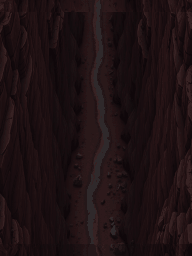
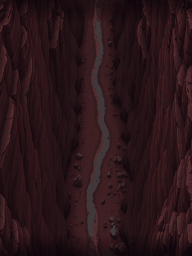
feat: 全5面の背景を生成画像ベースのドット絵タイルに、明るさも調整
3面のみだった生成背景を全5面に拡大し、あわせて全体を明るくした。

背景タイル（art/bg/）:
- sky / sea / canyon / city / fortress の5種を各3枚、192x256・24色で生成
- 面ごとに明るさを調整（暗さ 0.46〜0.62 / 彩度ダウン 0.20〜0.45）。
  以前の 0.42 は暗すぎたため全体的に持ち上げた
- 継ぎ目の処理を変更。別々に生成した絵を広くクロスディゾルブすると
  白っぽい帯が出るので、狭くディゾルブしてから暗く落とし、
  「影を通過する」ように見せて隠すようにした

ゲーム側:
- drawBGOverlay() を新設し、画像背景の上に重ねる動きのある近景を面ごとに整理
  （鳥・薄雲／波のきらめき・白波・ブイ／土煙・小石・溶岩の飛沫／
    サーチライト・点滅灯／導管を流れる光・警告灯）
- 画像背景の面では暗幕(dim)をかけない（PNG側で明るさ調整済みのため）

生成元の1024x1024 PNGはサイズが大きいためコミットせず、
プロンプトとシードを art/bg/README.md に記録した。

描画コストは 0.17〜0.34ms/フレーム。追加ファイルは15枚で484KB。

diff --git a/index.html b/index.html
@@ -1646,7 +1646,11 @@ function loadBGTiles(idx, name, n){
     arr.push(im);
   }
 }
-loadBGTiles(2, 'canyon', 3);          // 3面：紅蓮の峡谷
+loadBGTiles(0, 'sky',      3);        // 1面：蒼空
+loadBGTiles(1, 'sea',      3);        // 2面：蒼海
+loadBGTiles(2, 'canyon',   3);        // 3面：峡谷
+loadBGTiles(3, 'city',     3);        // 4面：夜の街
+loadBGTiles(4, 'fortress', 3);        // 5面：宇宙要塞
 
 // タイルを縦に敷き詰めてスクロールさせる
 function drawBGTiles(T){
@@ -1660,10 +1664,82 @@ function drawBGTiles(T){
     }
 }
 
+
+/* 画像背景の上に重ねる、動きのある近景。背景そのものは静止画なので、
+   ここで手描きの要素を流して奥行きと生命感を出す。 */
+function drawBGOverlay(idx){
+  if (idx === 0){                                   // 空：鳥の群れと薄い雲
+    for (const p of bgSky){
+      const x = Math.round(dot(p.x)), y = Math.round(dot(p.y)), s = p.s;
+      if (p.k === 1){
+        for (let i = 0; i < 4; i++){
+          const bx = x + i*5 - 7, by = y + ((i*3)%4) - 2;
+          const f = (Math.floor(scrollY*0.08) + i) % 2;
+          pset(bx, by+f, '#141f33'); pset(bx+1, by, '#141f33'); pset(bx+2, by+f, '#141f33');
+        }
+      }
+    }
+    for (const p of bgProps){                       // 手前を横切る薄い雲
+      const x = Math.round(dot(p.x)), y = Math.round(dot(p.y)), s = p.s;
+      ctx.globalAlpha = 0.28;
+      oval(x, y, 13*s, 3*s, '#8fa8c8'); oval(x+8*s, y+1, 8*s, 2*s, '#8fa8c8');
+      ctx.globalAlpha = 1;
+    }
+  } else if (idx === 1){                            // 海：波のきらめきと白波
+    for (let i = 0; i < 9; i++){
+      const y = Math.round(((scrollY*1.4/PIXEL + i*29) % (PH+29)) - 14);
+      ctx.fillStyle = '#5fa8cc';
+      for (let x = (i*11)%16; x < PW; x += 16)
+        pset(x, y + Math.round(Math.sin(x*0.18 + scrollY*0.02 + i)*1.6), '#5fa8cc');
+    }
+    for (const p of bgSky){
+      const x = Math.round(dot(p.x)), y = Math.round(dot(p.y)), s = p.s;
+      if (p.k === 0){ pset(x-2, y-1, '#9fd8ee'); pset(x+2, y, '#9fd8ee'); pset(x, y+1, '#9fd8ee'); }
+      else if (p.k === 2){ pset(x, y, (Math.floor(scrollY*0.06) % 2) ? '#ff8a4a' : '#5a2a18'); }
+    }
+  } else if (idx === 2){                            // 峡谷：土煙・小石・溶岩の飛沫
+    for (const p of bgSky){
+      const x = Math.round(dot(p.x)), y = Math.round(dot(p.y)), s = p.s;
+      if (p.k === 0){ ctx.globalAlpha = 0.45; oval(x, y, 7*s, 2*s, '#5a3a1c'); ctx.globalAlpha = 1; }
+      else if (p.k === 1){ pset(x, y, '#6b4a24'); pset(x+2, y+1, '#4d3418'); }
+      else { pset(x, y, '#c2431a'); pset(x, y-1, '#ff9a3b'); }
+    }
+  } else if (idx === 3){                            // 街：サーチライトと点滅灯
+    for (const p of bgSky){
+      const x = Math.round(dot(p.x)), y = Math.round(dot(p.y)), s = p.s;
+      if (p.k === 2){
+        const sw = Math.sin(scrollY*0.02 + p.seed)*0.5;
+        ctx.globalAlpha = 0.5;
+        for (let t = 0; t < 26*s; t++)
+          if ((t + Math.floor(scrollY*0.1)) % 3) pset(x + t*sw, y - t, '#2a4a72');
+        ctx.globalAlpha = 1;
+        pset(x, y, '#bfe4ff');
+      } else if ((p.seed + Math.floor(scrollY*0.05)) % 3 === 0){
+        pset(x, y, '#ff5a5a');
+      }
+    }
+  } else {                                          // 要塞：導管を流れる光と警告灯
+    for (let i = 0; i < 5; i++){
+      const x = 18 + i*39;
+      const y = Math.round(((scrollY*3/PIXEL + i*54) % (PH+48)) - 24);
+      rct(x, y, 1, 14, '#4fb8ff'); rct(x, y+5, 1, 4, '#d8f4ff');
+    }
+    for (const p of bgSky){
+      const x = Math.round(dot(p.x)), y = Math.round(dot(p.y));
+      if (p.k === 2) pset(x, y, (Math.floor(scrollY*0.08) % 2) ? '#ff5a5a' : '#3a1010');
+      else if (p.k === 0) pset(x, y, (Math.floor(scrollY*0.05 + p.seed) % 4) ? '#1e3050' : '#5fc8ff');
+    }
+  }
+}
+
 function drawBG(idx){
   const TILES = BGTILES[idx];
-  if (TILES) drawBGTiles(TILES);         // 生成した背景タイル
-  else ctx.drawImage(bgBake, 0, 0);      // 焼いておいたグラデーション
+  if (TILES){                            // 生成した背景タイル
+    drawBGTiles(TILES);
+    drawBGOverlay(idx);
+    return;
+  }
+  ctx.drawImage(bgBake, 0, 0);           // 焼いておいたグラデーション
 
   if (idx === 0){                        // ---- 空 ----
     for (const p of bgSky){              // 最遠景：巻雲と鳥の群れ
@@ -1736,20 +1812,6 @@ function drawBG(idx){
         }
     }
   } else if (idx === 2){                 // ---- 峡谷 ----
-    if (TILES){                          // 画像背景のときは動くものだけ重ねる
-      for (const p of bgSky){
-        const x = Math.round(dot(p.x)), y = Math.round(dot(p.y)), s = p.s;
-        if (p.k === 0){ ctx.globalAlpha = 0.5; oval(x, y, 7*s, 2*s, '#3a2410'); ctx.globalAlpha = 1; }
-        else if (p.k === 1){ pset(x, y, '#5c4020'); pset(x+2, y+1, '#432c14'); }
-        else { pset(x, y, '#c2431a'); pset(x, y-1, '#ff9a3b'); }
-      }
-      for (const p of bgFar){            // ちらつく熱気
-        if ((p.seed|0) % 2) continue;
-        const x = Math.round(dot(p.x)), y = Math.round(dot(p.y));
-        if (Math.floor(scrollY*0.1 + x) % 3 === 0) pset(x, y, '#4d2c10');
-      }
-      return;
-    }
     for (const p of bgSky){              // 土煙・小石・溶岩の飛沫
       const x = Math.round(dot(p.x)), y = Math.round(dot(p.y)), s = p.s;
       if (p.k === 0) oval(x, y, 6*s, 2*s, '#2a1a0c');
@@ -2519,8 +2581,10 @@ function render(){
     drawEnding();
   } else {
     drawBG(stageIndex);
-    ctx.fillStyle = 'rgba(0,3,10,' + (STAGES[stageIndex].dim || 0) + ')';
-    ctx.fillRect(0,0,PW,PH);
+    if (!BGTILES[stageIndex]){
+      ctx.fillStyle = 'rgba(0,3,10,' + (STAGES[stageIndex].dim || 0) + ')';
+      ctx.fillRect(0,0,PW,PH);
+    }
     drawItems();
     for (const e of enemies) e.k.draw(e);
     drawBoss();

diff --git a/art/bg/make-all.py b/art/bg/make-all.py
@@ -1,0 +1,62 @@
+#!/usr/bin/env python3
+"""全ステージ分の背景タイルを作り、ゲーム画面のモックで見え方を確認する。"""
+import subprocess, sys
+sys.path.insert(0, '../pixel')
+from PIL import Image, ImageDraw, ImageFont
+from pal import PAL, SWAP_2P
+from ship import SHIP
+
+# 面ごとの 暗さ / 彩度ダウン（明るいほど数字が大きい）
+STAGES = [
+    ('sky',      0.46, 0.20),
+    ('sea',      0.62, 0.40),
+    ('canyon',   0.58, 0.45),
+    ('city',     0.60, 0.38),
+    ('fortress', 0.58, 0.38),
+]
+PW, PH = 192, 256
+
+def sprite_img(rows, pal):
+    w,h = len(rows[0]), len(rows)
+    im = Image.new('RGBA',(w,h),(0,0,0,0)); p = im.load()
+    for y,r in enumerate(rows):
+        for x,ch in enumerate(r):
+            c = pal.get(ch)
+            if c: p[x,y] = tuple(int(c[i:i+2],16) for i in (1,3,5)) + (255,)
+    return im
+
+BALL = ['.####.','#%%%%#','#%00%#','#%00%#','#%%%%#','.####.']
+def mock(bg):
+    im = bg.copy(); d = ImageDraw.Draw(im)
+    p2 = dict(PAL); p2.update(SWAP_2P)
+    s1, s2 = sprite_img(SHIP, PAL), sprite_img(SHIP, p2)
+    im.paste(s1,(70,200),s1); im.paste(s2,(106,200),s2)
+    for i,x0 in enumerate([76,112]):
+        col = (95,216,255) if i==0 else (255,177,95)
+        for y in range(60,200,14):
+            d.rectangle([x0,y,x0+1,y+9], fill=col); d.rectangle([x0,y+2,x0+1,y+5], fill=(255,255,255))
+    for (bx,by,c) in [(40,90,(255,90,224)),(150,120,(255,207,74)),(60,150,(127,224,255)),
+                      (128,70,(255,90,224)),(96,160,(255,207,74)),(30,180,(127,224,255))]:
+        for yy,row in enumerate(BALL):
+            for xx,ch in enumerate(row):
+                if ch=='#': im.putpixel((bx+xx,by+yy),(8,12,20))
+                elif ch=='%': im.putpixel((bx+xx,by+yy),c)
+                elif ch=='0': im.putpixel((bx+xx,by+yy),(255,255,255))
+    d.rectangle([0,0,PW-1,17], fill=(5,9,18)); d.rectangle([0,17,PW-1,17], fill=(44,90,140))
+    return im
+
+mocks = []
+for name, dk, ds in STAGES:
+    subprocess.run(['python3','make-bg.py',name,str(dk),str(ds)], check=True)
+    mocks.append((name, mock(Image.open('%s-0.png' % name).convert('RGB'))))
+
+Z = 2
+sheet = Image.new('RGB',(len(mocks)*(PW*Z+12)+12, PH*Z+40),(12,14,20))
+d = ImageDraw.Draw(sheet)
+try: f = ImageFont.truetype('/System/Library/Fonts/Helvetica.ttc', 14)
+except Exception: f = ImageFont.load_default()
+for i,(name,im) in enumerate(mocks):
+    x = 12 + i*(PW*Z+12)
+    sheet.paste(im.resize((PW*Z,PH*Z), Image.NEAREST),(x,28))
+    d.text((x,8), '%s  (%.2f / %.2f)' % (name, STAGES[i][1], STAGES[i][2]), fill=(150,200,255), font=f)
+sheet.save('all-mock.png'); print('all-mock.png', sheet.size)

diff --git a/art/bg/make-bg.py b/art/bg/make-bg.py
@@ -13,7 +13,9 @@ import sys
 from PIL import Image
 
 PW, PH = 192, 256
-SEAM = 24            # 継ぎ目をブレンドする幅
+SEAM  = 10           # 継ぎ目をクロスディゾルブする幅（狭く）
+SHADE = 22           # 継ぎ目を暗く落とす幅（影を通過するように見せる）
+SHADE_MIN = 0.55     # 継ぎ目のいちばん暗いところの明るさ
 COLORS = 24
 
 def load(src, darken, desat):
@@ -29,16 +31,23 @@ def load(src, darken, desat):
     return im
 
 def blend_seam(strip, y):
-    """y を境にした継ぎ目を上下 SEAM/2 にわたって混ぜる（y は strip 内の位置）"""
+    """y を境に、狭くクロスディゾルブしてから、広めに暗く落とす。
+    別々に生成した絵をただ混ぜると白っぽい帯になるので、
+    影を通過したように見せて繋ぎ目を隠す。"""
     p = strip.load(); H = strip.height
     for i in range(SEAM):
-        a = i/(SEAM-1)                      # 0→1
-        ya = (y - SEAM//2 + i) % H
-        yb = (y + SEAM//2 - i - 1) % H
+        a = (i+1)/(SEAM+1) * 0.5
+        ya, yb = (y - SEAM + i) % H, (y + SEAM - i - 1) % H
         for x in range(PW):
             ca, cb = p[x,ya], p[x,yb]
-            p[x,ya] = tuple(int(ca[c]*(1-a*0.5) + cb[c]*(a*0.5)) for c in range(3))
-            p[x,yb] = tuple(int(cb[c]*(1-a*0.5) + ca[c]*(a*0.5)) for c in range(3))
+            p[x,ya] = tuple(int(ca[c]*(1-a) + cb[c]*a) for c in range(3))
+            p[x,yb] = tuple(int(cb[c]*(1-a) + ca[c]*a) for c in range(3))
+    for i in range(-SHADE, SHADE):
+        k = SHADE_MIN + (1-SHADE_MIN) * (abs(i)/SHADE)**1.5
+        yy = (y + i) % H
+        for x in range(PW):
+            c = p[x,yy]
+            p[x,yy] = tuple(int(c[j]*k) for j in range(3))
 
 def main():
     name   = sys.argv[1] if len(sys.argv) > 1 else 'canyon'

diff --git a/art/bg/README.md b/art/bg/README.md
@@ -1,37 +1,47 @@
 # 生成した背景タイル
 
 外部の画像生成（Replicate / `black-forest-labs/flux-schnell`）で「真上からの俯瞰」を作り、
-後処理でドットグリッドに乗せ直したものです。生成そのままでは、
-ピクセルがグリッドに揃わず・アンチエイリアスがかかり・色数が数千あるため、
-手描きのスプライトと並べると必ず浮きます。次の工程で本物のドット絵にしています。
+後処理でドットグリッドに乗せ直したものです。生成そのままでは、ピクセルがグリッドに揃わず・
+アンチエイリアスがかかり・色数が数千あるため、手描きのスプライトと並べると必ず浮きます。
+
+## 後処理（make-bg.py）
 
 1. **面積平均で 192×256 へ縮小** — この時点で 1ドット = 1ピクセルが保証される
-2. **輝度と彩度を落とす** — 自機と弾が背景に埋もれないようにする
-3. **3枚を縦に積んで継ぎ目をクロスブレンド** — 縦スクロールでループできるようにする
-4. **3枚まとめて減色（24色・ディザなし）** — 共通パレットになり、タイル間で色が飛ばない
+2. **輝度と彩度を落とす** — 自機と弾が背景に埋もれないようにする（面ごとに調整）
+3. **3枚を縦に積み、継ぎ目を狭くクロスディゾルブしてから暗く落とす**
+   別々に生成した絵をただ混ぜると白っぽい帯が出るので、影を通過したように見せて隠す
+4. **3枚まとめて24色に減色（ディザなし）** — 共通パレットになりタイル間で色が飛ばない
 
 ```bash
-python3 make-bg.py canyon 0.42 0.55     # 暗さ 0.42 / 彩度ダウン 0.55
+python3 make-all.py          # 全5面ぶんを作り直し、確認用モックも出力
+python3 make-bg.py sky 0.46 0.20   # 個別（名前 暗さ 彩度ダウン）
 ```
 
-`raw-<名前>-0..2.png` を読んで `<名前>-0..2.png` を書き出します。
-確認用に `<名前>-strip.png`（3枚を縦に繋いだ2倍表示）も出ます。
+面ごとの設定値は `make-all.py` の `STAGES` にあります。
 
-| ファイル | 内容 |
-|---|---|
-| `raw-canyon-0..2.png` | 生成そのまま（1024×1024） |
-| `canyon-0..2.png` | ゲームが読む背景タイル（192×256・24色） |
-| `make-bg.py` | 変換スクリプト |
+| 面 | 名前 | 暗さ / 彩度ダウン |
+|---|---|---|
+| 1 | `sky` | 0.46 / 0.20 |
+| 2 | `sea` | 0.62 / 0.40 |
+| 3 | `canyon` | 0.58 / 0.45 |
+| 4 | `city` | 0.60 / 0.38 |
+| 5 | `fortress` | 0.58 / 0.38 |
 
-ゲーム側は `loadBGTiles(面番号, '名前', 枚数)` で登録します。
+## ゲーム側
+
+`loadBGTiles(面番号, '名前', 3)` で登録します。3枚で 768 ドット分＝約3画面ぶんで一周します。
 **読み込みに失敗した面は、これまでどおり手続き的な描画にフォールバック**するので、
-PNG がなくてもゲームは動きます。
+PNG がなくてもゲームは動きます。画像の上には、動きのある近景
+（鳥・波のきらめき・土煙・サーチライト・導管を流れる光）だけを手描きで重ねています。
 
-生成に使ったプロンプト（3面・峡谷）:
+## 生成に使ったプロンプト
 
-> Top-down aerial view looking straight down at a deep red rock canyon,
-> a winding dry riverbed running vertically down the middle, layered rock strata
-> on both cliff walls, scattered boulders and rubble on the canyon floor,
-> thin glowing lava cracks, 16-bit era pixel art game background,
-> chunky visible pixels, limited palette of dark browns and rust reds,
-> flat even lighting, no characters, no vehicles, no text
+`raw-*.png`（生成そのままの1024×1024）はサイズが大きいのでコミットしていません。
+作り直す場合は以下で生成し、`raw-<名前>-0..2.png` として置いてください。
+いずれも `num_outputs: 3, aspect_ratio: "1:1", output_format: "png", num_inference_steps: 4`。
+
+- **sky** (seed 2201) — Top-down aerial view looking straight down through a broken layer of clouds, dark blue sea far below visible through the gaps between clouds, wispy cloud tops, twilight, 16-bit era pixel art game background, chunky visible pixels, limited palette of deep blues and pale grey clouds, flat even lighting, no characters, no aircraft, no text
+- **sea** (seed 3312) — Top-down aerial view looking straight down at a dark tropical ocean, scattered small islands with sandy beaches and green vegetation, coral reefs in shallow turquoise water, white foam around the shores, deep navy open water, 16-bit era pixel art game background, chunky visible pixels, limited palette of deep blues and teals, flat even lighting, no boats, no characters, no text
+- **canyon** (seed 5150) — Top-down aerial view looking straight down at a deep red rock canyon, a winding dry riverbed running vertically down the middle, layered rock strata on both cliff walls, scattered boulders and rubble on the canyon floor, thin glowing lava cracks, 16-bit era pixel art game background, chunky visible pixels, limited palette of dark browns and rust reds, flat even lighting, no characters, no vehicles, no text
+- **city** (seed 4423) — Top-down aerial view looking straight down at a dense night city, illuminated skyscraper rooftops, glowing street grid, elevated highways with light trails, dark navy and cyan color scheme, tiny warm window lights, rooftop helipads, 16-bit era pixel art game background, chunky visible pixels, limited dark palette, flat even lighting, no characters, no text
+- **fortress** (seed 5534) — Top-down aerial view looking straight down at the armored outer surface of a vast alien space fortress, interlocking metal plates, glowing energy conduits, ventilation grilles and machinery, hazard stripes, antenna arrays, dark steel blue with cyan and amber glow, 16-bit era pixel art game background, chunky visible pixels, limited dark palette, flat even lighting, no characters, no ships, no text

diff --git a/README.md b/README.md
@@ -137,11 +137,12 @@ open index.html
 - 画面内の文字はすべて自作の 5×7 ドットフォントです（表記は英語）。
 - 背景は面ごとに3層のパララックスと、境目にディザを入れた階調で描いています。
   グラデーションは起動時に一度だけオフスクリーンへ焼いて、毎フレームは転送するだけです。
-- **3面（RED CANYON）だけ、外部の画像生成で作った背景タイルを使っています。**
+- **全5面の地形は、外部の画像生成で作った背景タイルを使っています。**
   生成画像をそのまま貼るとドットグリッドに乗らないため、面積平均で192幅へ縮小 →
-  輝度・彩度を落とす → 3枚の継ぎ目をブレンドして縦ループ化 → 24色に減色、
+  輝度・彩度を落とす → 3枚の継ぎ目を影で繋いで縦ループ化 → 24色に減色、
   という後処理で本物のドット絵に変換しています。詳細は [`art/bg/`](art/bg/) を参照。
-  **PNG が読めない面は手続き的な描画に自動でフォールバック**します。
+  画像の上には、動きのある近景（鳥・波のきらめき・土煙・サーチライト・導管の光）だけを
+  手描きで重ねています。**PNG が読めない面は手続き的な描画に自動でフォールバック**します。
 
 `art/` 直下に残っている PNG は、以前 Replicate（`black-forest-labs/flux-schnell`）で
 生成した自機の絵です。**現在は使っていません**が、参考として残しています。
